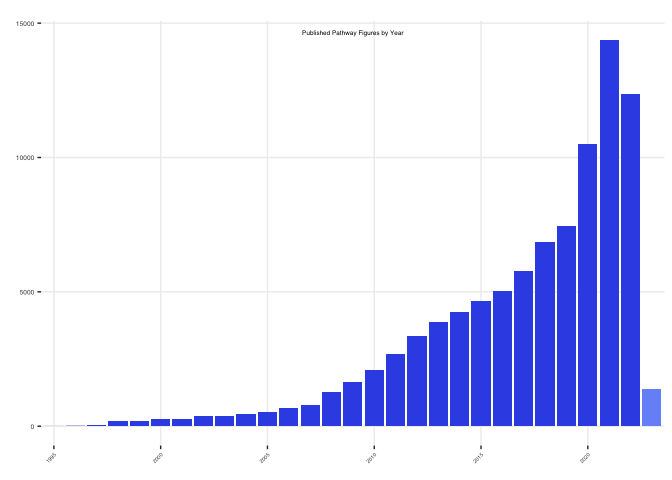
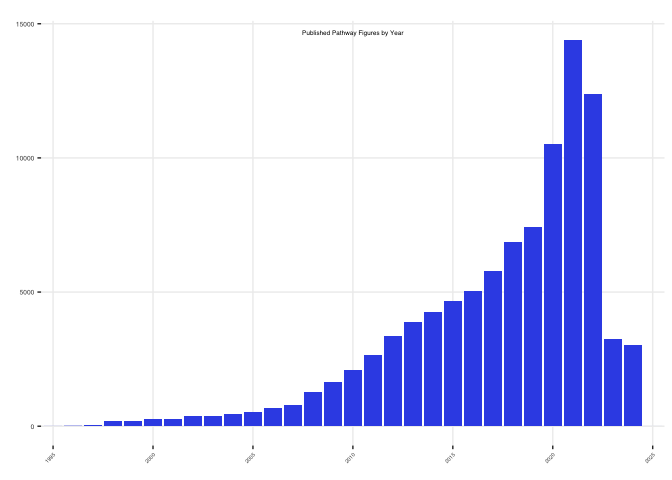
update stats

diff --git a/_rmd/stats.md b/_rmd/stats.md
@@ -18,10 +18,10 @@ Set the path to these files
 Read in files
 
 ``` r
-figs <- readRDS(file.path(local.path,"pfocr_figures.rds"))
-genes <- readRDS(file.path(local.path,"pfocr_genes.rds"))
-chems <- readRDS(file.path(local.path,"pfocr_chemicals.rds"))
-dis <- readRDS(file.path(local.path,"pfocr_diseases.rds"))
+figs <- readRDS(file.path(local.path,"pfocr_figures_draft.rds"))
+genes <- readRDS(file.path(local.path,"pfocr_genes_draft.rds"))
+chems <- readRDS(file.path(local.path,"pfocr_chemicals_draft.rds"))
+dis <- readRDS(file.path(local.path,"pfocr_diseases_draft.rds"))
 ```
 
 ## Contents and counts
@@ -66,14 +66,14 @@ data <- data.frame(Total = c(gene.total,chem.total,di.total), Unique = c(gene.un
 row.names(data) = c("Genes", "Chemicals", "Diseases")
 ```
 
-The Pathway Figure OCR project has identified 105451 pathway figures
-from 89737 published papers.
+The Pathway Figure OCR project has identified 110408 pathway figures
+from 93057 published papers.
 
 |           |     Total | Unique            | Specific      |
 |:----------|----------:|:------------------|:--------------|
-| Genes     | 4,534,575 | 147613 (ncbigene) | 18441 (human) |
-| Chemicals |   319,846 | 14212 (mesh)      | 4120 (chebi)  |
-| Diseases  |    43,218 | 1632 (mesh)       | 204 (doid)    |
+| Genes     | 4,687,583 | 147974 (ncbigene) | 18586 (human) |
+| Chemicals |   346,094 | 14212 (mesh)      | 6785 (chebi)  |
+| Diseases  |    44,598 | 1632 (mesh)       | 673 (doid)    |
 
 Contents extracted from figures
 

diff --git a/stats.md b/stats.md
@@ -18,10 +18,10 @@ Set the path to these files
 Read in files
 
 ``` r
-figs <- readRDS(file.path(local.path,"pfocr_figures.rds"))
-genes <- readRDS(file.path(local.path,"pfocr_genes.rds"))
-chems <- readRDS(file.path(local.path,"pfocr_chemicals.rds"))
-dis <- readRDS(file.path(local.path,"pfocr_diseases.rds"))
+figs <- readRDS(file.path(local.path,"pfocr_figures_draft.rds"))
+genes <- readRDS(file.path(local.path,"pfocr_genes_draft.rds"))
+chems <- readRDS(file.path(local.path,"pfocr_chemicals_draft.rds"))
+dis <- readRDS(file.path(local.path,"pfocr_diseases_draft.rds"))
 ```
 
 ## Contents and counts
@@ -66,14 +66,14 @@ data <- data.frame(Total = c(gene.total,chem.total,di.total), Unique = c(gene.un
 row.names(data) = c("Genes", "Chemicals", "Diseases")
 ```
 
-The Pathway Figure OCR project has identified 103009 pathway figures
-from 87705 published papers.
+The Pathway Figure OCR project has identified 110408 pathway figures
+from 93057 published papers.
 
 |           |     Total | Unique            | Specific      |
 |:----------|----------:|:------------------|:--------------|
-| Genes     | 4,426,921 | 146866 (ncbigene) | 18383 (human) |
-| Chemicals |   309,761 | 13979 (mesh)      | 4085 (chebi)  |
-| Diseases  |    41,738 | 1602 (mesh)       | 201 (doid)    |
+| Genes     | 4,687,583 | 147974 (ncbigene) | 18586 (human) |
+| Chemicals |   346,094 | 14212 (mesh)      | 6785 (chebi)  |
+| Diseases  |    44,598 | 1632 (mesh)       | 673 (doid)    |
 
 Contents extracted from figures
 
